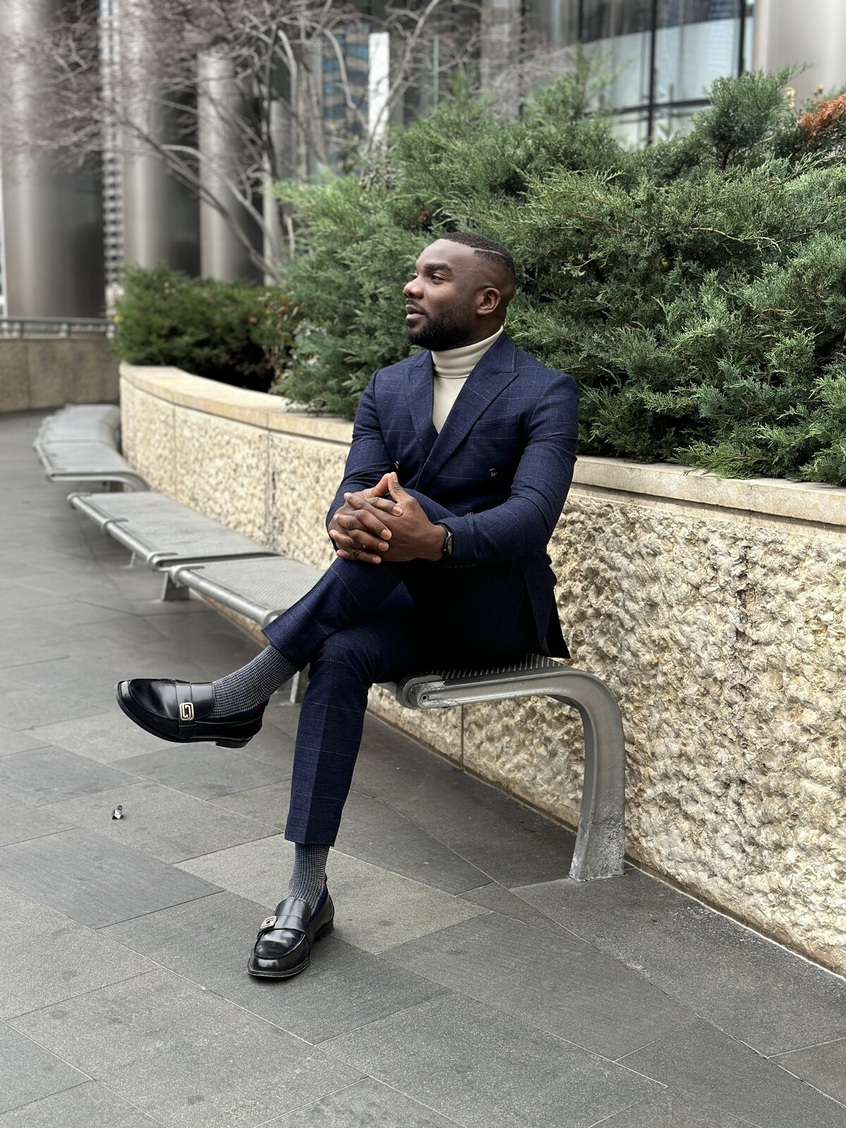
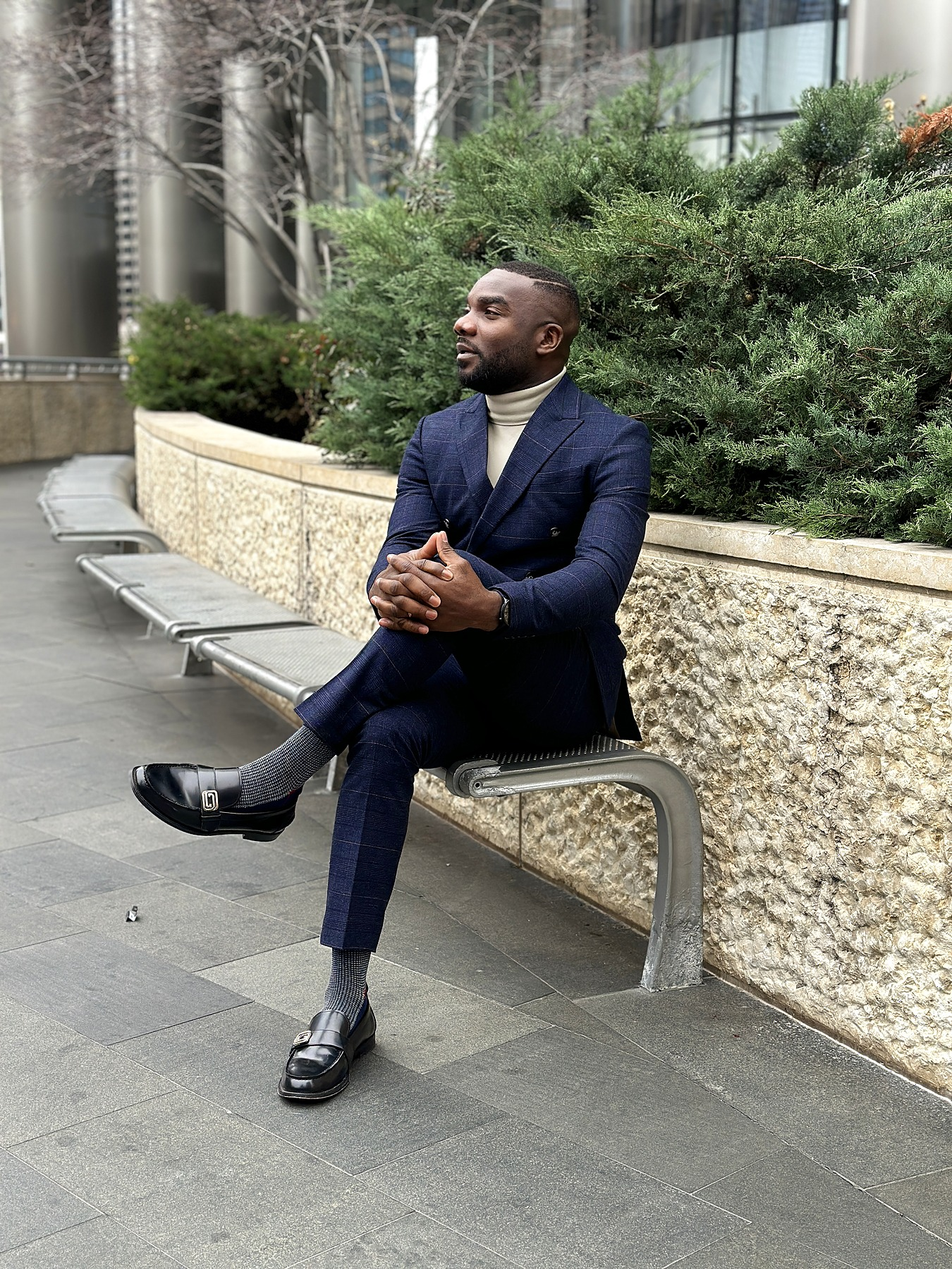
Home: clearer Trusted Guide portrait · Services: re-add support image band
Home — Trusted Guide section
- Re-encode /ife-portrait-suit.jpg from the original Drive source at q92
  with light contrast/saturation/sharpening so the photo reads vivid against
  the warm cream surroundings (was soft/washed at q86)
- Separate the photo from its cream "paper" wrapper so it doesn't pick up
  a creamy frame tint — photo gets its own shadow-lift card and the name +
  credentials sit in a smaller card below

Services
- Re-add a section in the slot where the Intake card used to be: full-width
  image band featuring /intake-support.jpg (hand resting on a shoulder)
  with a short "A safe place to be seen, heard, and supported" caption —
  this is the picture from item 6 of the brief, now standing on its own

diff --git a/src/app/page.tsx b/src/app/page.tsx
@@ -180,37 +180,35 @@ export default function Home() {
         <Container className="grid gap-14 lg:grid-cols-[0.92fr_1.08fr] lg:items-center lg:gap-16">
           <Reveal className="relative order-2 lg:order-1">
             <div className="relative mx-auto w-full max-w-md">
-              <div className="overflow-hidden rounded-[2.25rem] border border-line bg-paper shadow-soft">
-                <div className="relative aspect-[3/4] w-full">
-                  <Image
-                    src="/ife-portrait-suit.jpg"
-                    alt="Ife Williams — trauma-informed coach"
-                    fill
-                    sizes="(max-width: 1024px) 90vw, 32rem"
-                    className="object-cover"
-                  />
-                </div>
-                <div className="p-7 sm:p-8">
-                  <p className="font-display text-2xl font-medium text-forest">
-                    Ife Williams
-                  </p>
-                  <p className="mt-1 text-xs font-semibold uppercase tracking-[0.2em] text-sage-deep">
-                    Trauma-Informed Coach &amp; Pastor
-                  </p>
-                  <div className="mt-5 space-y-2.5 border-t border-line pt-5 text-left">
-                    {credentials.map((credential) => (
-                      <div
-                        key={credential}
-                        className="flex items-start gap-2.5"
-                      >
-                        <Check className="mt-0.5 h-4 w-4 shrink-0 text-gold-deep" />
-                        <span className="text-sm text-stone">
-                          {credential}
-                        </span>
-                      </div>
-                    ))}
-                  </div>
-                </div>
+              <div className="relative aspect-[3/4] w-full overflow-hidden rounded-[2.25rem] shadow-lift">
+                <Image
+                  src="/ife-portrait-suit.jpg"
+                  alt="Ife Williams — trauma-informed coach"
+                  fill
+                  sizes="(max-width: 1024px) 90vw, 32rem"
+                  className="object-cover"
+                />
+              </div>
+              <div className="mt-5 rounded-[1.75rem] border border-line bg-paper px-6 py-5 shadow-card">
+                <p className="font-display text-xl font-medium text-forest">
+                  Ife Williams
+                </p>
+                <p className="mt-1 text-[0.62rem] font-semibold uppercase tracking-[0.22em] text-sage-deep">
+                  Trauma-Informed Coach &amp; Pastor
+                </p>
+                <ul className="mt-4 space-y-2 border-t border-line pt-4">
+                  {credentials.map((credential) => (
+                    <li
+                      key={credential}
+                      className="flex items-start gap-2.5"
+                    >
+                      <Check className="mt-0.5 h-4 w-4 shrink-0 text-gold-deep" />
+                      <span className="text-sm leading-snug text-stone">
+                        {credential}
+                      </span>
+                    </li>
+                  ))}
+                </ul>
               </div>
             </div>
           </Reveal>

diff --git a/src/app/services/page.tsx b/src/app/services/page.tsx
@@ -123,6 +123,42 @@ export default function ServicesPage() {
         </Container>
       </section>
 
+      {/* SUPPORT IMAGE BAND (replaces the removed Intake section per the brief) */}
+      <section className="bg-cream-deep/55 py-24 sm:py-28">
+        <Container>
+          <div className="grid items-center gap-12 lg:grid-cols-[1.05fr_0.95fr] lg:gap-16">
+            <Reveal>
+              <div className="relative aspect-[16/10] w-full overflow-hidden rounded-[2rem] shadow-card">
+                <Image
+                  src="/intake-support.jpg"
+                  alt="A hand resting gently on someone's shoulder during a coaching session"
+                  fill
+                  sizes="(max-width: 1024px) 90vw, 36rem"
+                  className="object-cover"
+                />
+                <div className="absolute inset-0 bg-gradient-to-tr from-forest-deep/20 via-transparent to-transparent" />
+              </div>
+            </Reveal>
+            <Reveal delay={120}>
+              <Eyebrow>Compassionate · Confidential</Eyebrow>
+              <h2 className="mt-5 font-display text-3xl font-medium leading-[1.14] tracking-tight text-forest sm:text-4xl">
+                A safe place to be seen, heard, and supported.
+              </h2>
+              <p className="mt-5 text-base leading-relaxed text-stone sm:text-lg">
+                Every session is an invitation to breathe, process, and take
+                meaningful steps toward wholeness — with a coach who walks
+                beside you, not above you.
+              </p>
+              <p className="mt-3 text-base leading-relaxed text-stone sm:text-lg">
+                Whether you arrive carrying a fresh wound or a story long
+                quiet, the space you find here will be calm, judgment-free,
+                and shaped by the heart of God.
+              </p>
+            </Reveal>
+          </div>
+        </Container>
+      </section>
+
       {/* FEE SCHEDULE */}
       <section className="py-24 sm:py-28">
         <Container className="grid gap-12 lg:grid-cols-[1.15fr_0.85fr] lg:items-start lg:gap-16">
